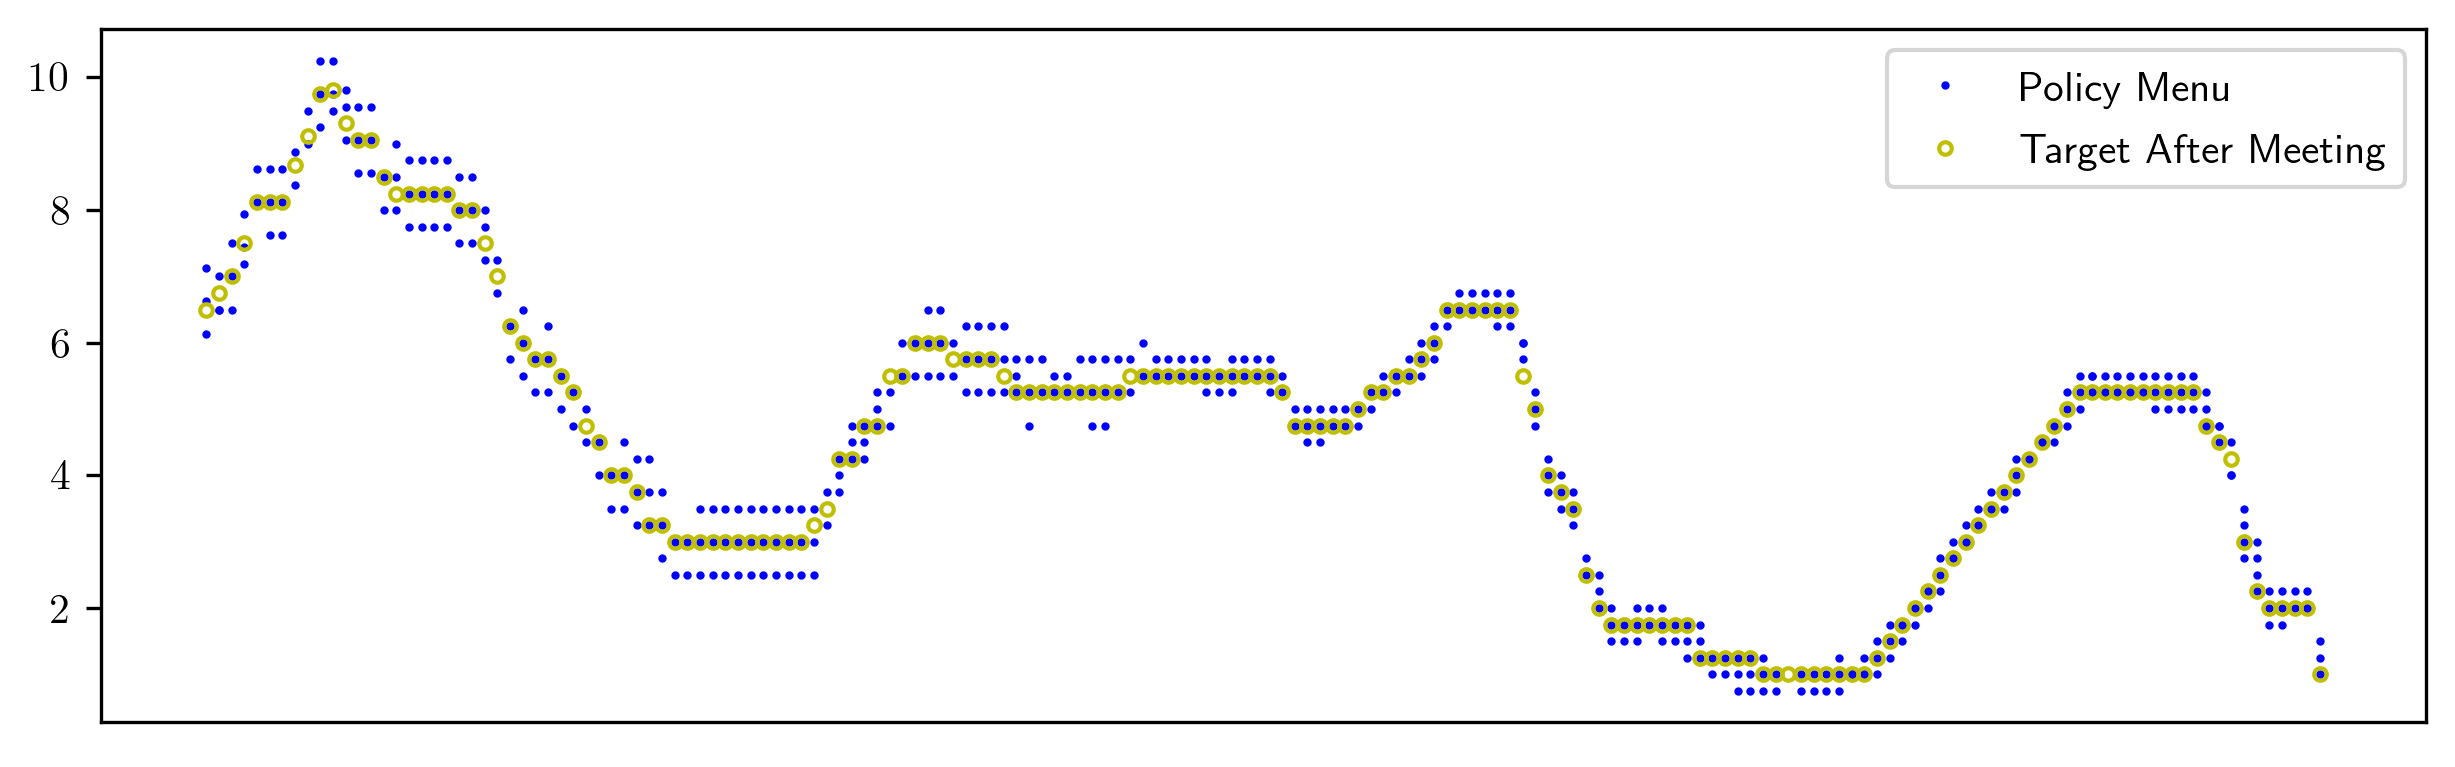
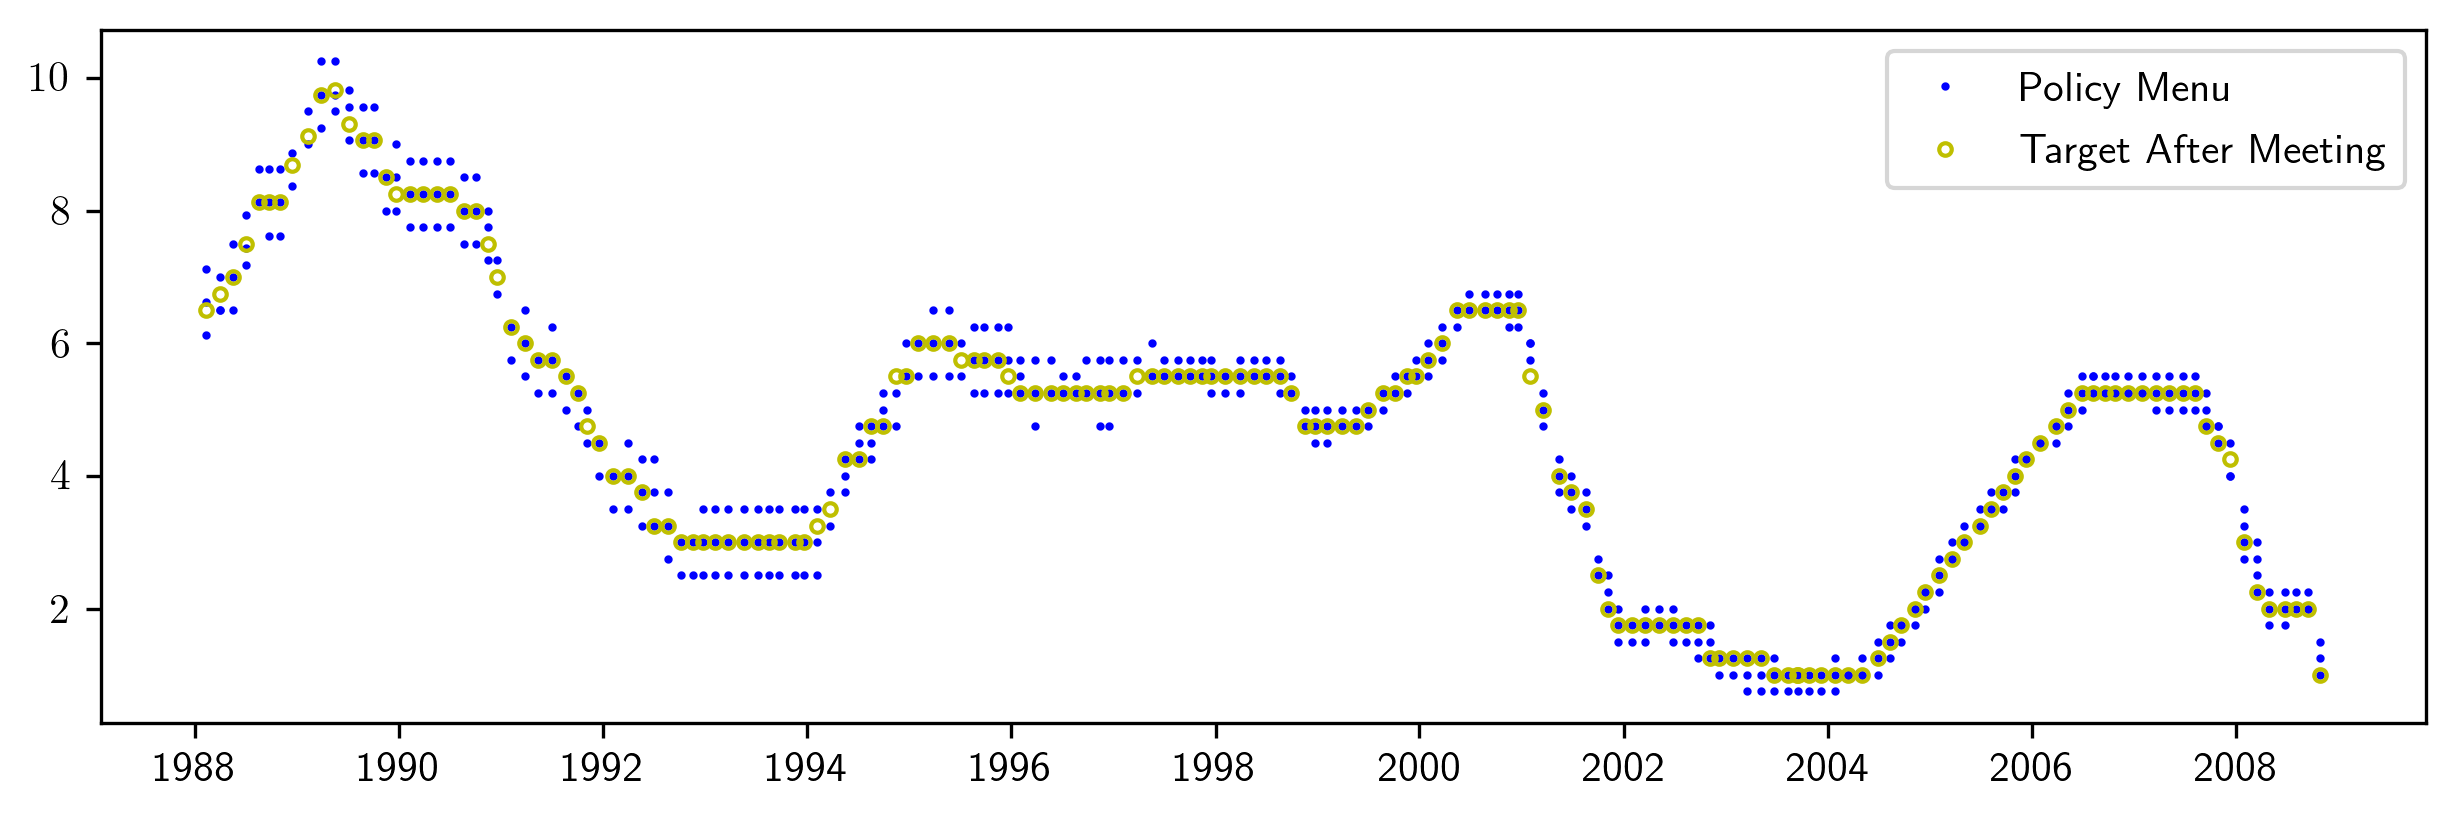
added year labels

diff --git a/src/analysis/python/scripts/produce_target_and_alternative_graph.py b/src/analysis/python/scripts/produce_target_and_alternative_graph.py
@@ -20,29 +20,29 @@ def plot_target(dataffr):
     plt.rc('text', usetex=True)
     fig = plt.figure(figsize=(10, 3))
     ax = fig.add_subplot(1, 1, 1)
+    dataffr.sort_values(by="date",inplace=True)
+    dataffr['date'] = pd.to_datetime(dataffr['date'])
     ax.plot(dataffr['date'], dataffr['alt_a_rate'], 'bo',markersize=1)
     ax.plot(dataffr['date'], dataffr['alt_b_rate'], 'bo',markersize=1)
     ax.plot(dataffr['date'], dataffr['alt_c_rate'], 'bo',markersize=1)
     ax.plot(dataffr['date'], dataffr['alt_d_rate'], 'bo',markersize=1)
     ax.plot(dataffr['date'], dataffr['alt_e_rate'], 'bo',markersize=1,label="Policy Menu")
-
+    
     ax.plot(dataffr['date'], dataffr['target_after'], 'yo', markersize=3,fillstyle='none',label="Target After Meeting")
     ax.legend(loc='upper right')
-    years = mdates.YearLocator()  # every year
-    months = mdates.MonthLocator()  # every month
+    years = mdates.YearLocator(2)  # every 2 years
+    #months = mdates.MonthLocator()  # every month
     yearsFmt = mdates.DateFormatter('%Y')
 
     ax.xaxis.set_major_locator(years)
     ax.xaxis.set_major_formatter(yearsFmt)
-    ax.xaxis.set_minor_locator(months)
-
-
-
+    
     #turning_points = ['1989-06-01', '1993-06-01', '1995-04-01', '2000-11-01', '2004-01-01', '2007-02-01']
     #for datestring in turning_points:
     #    ax.axvline(x=pd.to_datetime(datestring), color='gray', linestyle='--')
 
-    #plt.legend(['Federal Funds Alternatives and Actions'], frameon=False)
+    #plt.legend(['Federal Funds Alternatives and Actions'], frameon=False)]
+    #plt.xticks(dataffr[])
     plt.savefig('../output/overleaf_files/fig_fed_target_and_alt.png', dpi=300, bbox_inches='tight')
     dataffr['decision'] = dataffr['target_after']-dataffr['target_before']
     dataffr.loc[168,'decision'] = -.5
